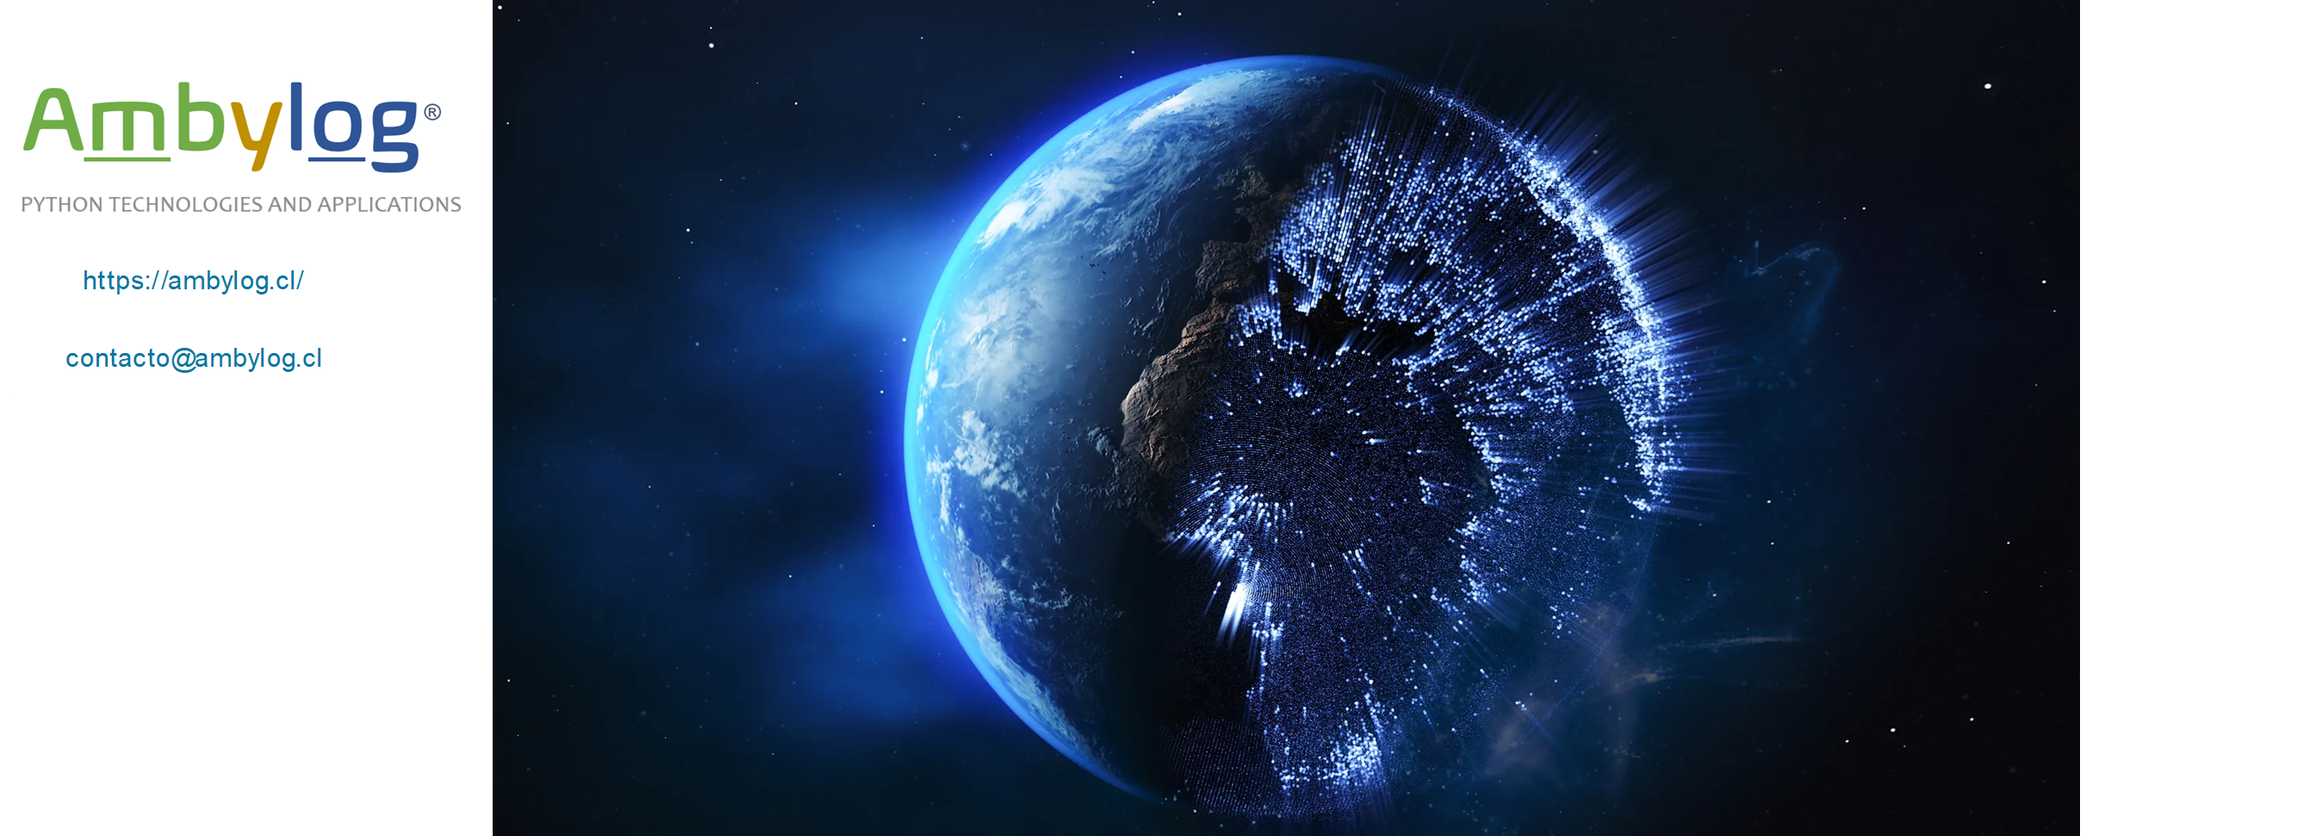
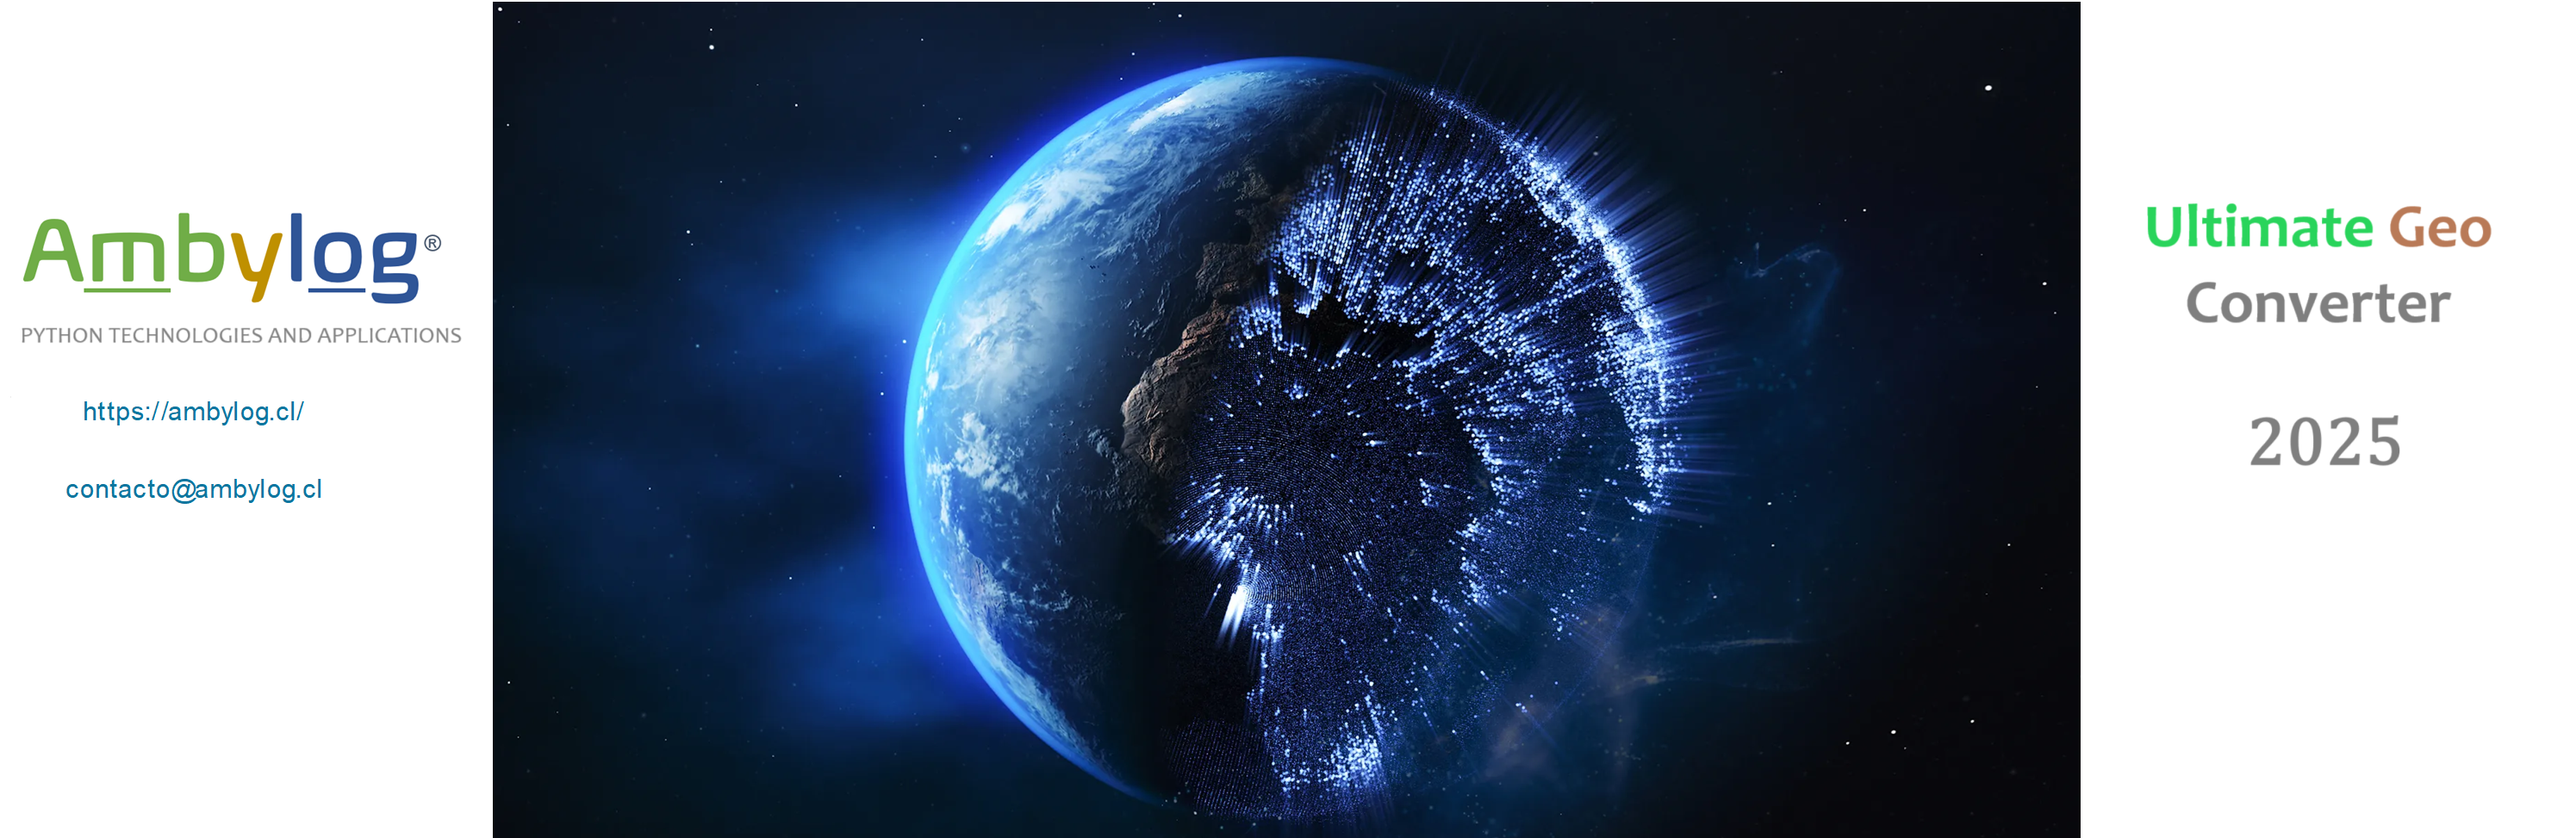
earth1 ampliado

diff --git a/.history/from_kml_20250515121102.py b/.history/from_kml_20250515121102.py
@@ -90,7 +90,7 @@ class App(customtkinter.CTk):
         
         # FRAME: ROW 2 - MAP PREVIEW
         # Creación del frame de vista previa
-        self.preview_frame = customtkinter.CTkFrame(self, height=500, width=500, fg_color='white')
+        self.preview_frame = customtkinter.CTkFrame(self, height=500, width=500, fg_color='#0C101C')
         self.preview_frame.grid(row=2, column=0, padx=10, pady=5, columnspan=4, sticky='nsew')
         self.preview_frame.grid_columnconfigure(1, weight=1)
         
@@ -115,9 +115,9 @@ class App(customtkinter.CTk):
        
         #Atardecer_anf.png amanecer.png
         images_config = [
-            {"url": "https://raw.githubusercontent.com/AlexAhernM/Converter/master/earth1.png", "size": (1360, 510)},
+            {"url": "https://raw.githubusercontent.com/AlexAhernM/Converter/master/earth1.png", "size": (1260, 530)},
             {"url": "https://raw.githubusercontent.com/AlexAhernM/Converter/master/Atardecer_anf.png", "size": (300, 180)},
-            {"url": "https://raw.githubusercontent.com/AlexAhernM/Converter/master/amanecer.png", "size": (300, 180)}
+            {"url": "https://raw.githubusercontent.com/AlexAhernM/Converter/master/amanecer.png", "size": (520, 180)}
         ]
         
          # Descargar las imágenes y crear CTkImage

diff --git a/.history/from_kml_20250515121501.py b/.history/from_kml_20250515121501.py
@@ -90,7 +90,7 @@ class App(customtkinter.CTk):
         
         # FRAME: ROW 2 - MAP PREVIEW
         # Creación del frame de vista previa
-        self.preview_frame = customtkinter.CTkFrame(self, height=500, width=500, fg_color='white')
+        self.preview_frame = customtkinter.CTkFrame(self, height=500, width=500, fg_color='#0C101C')
         self.preview_frame.grid(row=2, column=0, padx=10, pady=5, columnspan=4, sticky='nsew')
         self.preview_frame.grid_columnconfigure(1, weight=1)
         
@@ -117,7 +117,7 @@ class App(customtkinter.CTk):
         images_config = [
             {"url": "https://raw.githubusercontent.com/AlexAhernM/Converter/master/earth1.png", "size": (1360, 510)},
             {"url": "https://raw.githubusercontent.com/AlexAhernM/Converter/master/Atardecer_anf.png", "size": (300, 180)},
-            {"url": "https://raw.githubusercontent.com/AlexAhernM/Converter/master/amanecer.png", "size": (300, 180)}
+            {"url": "https://raw.githubusercontent.com/AlexAhernM/Converter/master/amanecer.png", "size": (520, 180)}
         ]
         
          # Descargar las imágenes y crear CTkImage

diff --git a/.history/from_kml_20250515121622.py b/.history/from_kml_20250515121622.py
@@ -117,7 +117,7 @@ class App(customtkinter.CTk):
         images_config = [
             {"url": "https://raw.githubusercontent.com/AlexAhernM/Converter/master/earth1.png", "size": (1360, 510)},
             {"url": "https://raw.githubusercontent.com/AlexAhernM/Converter/master/Atardecer_anf.png", "size": (300, 180)},
-            {"url": "https://raw.githubusercontent.com/AlexAhernM/Converter/master/amanecer.png", "size": (300, 180)}
+            {"url": "https://raw.githubusercontent.com/AlexAhernM/Converter/master/amanecer.png", "size": (520, 180)}
         ]
         
          # Descargar las imágenes y crear CTkImage

diff --git a/.history/from_kml_20250515121822.py b/.history/from_kml_20250515121822.py
@@ -117,7 +117,7 @@ class App(customtkinter.CTk):
         images_config = [
             {"url": "https://raw.githubusercontent.com/AlexAhernM/Converter/master/earth1.png", "size": (1360, 510)},
             {"url": "https://raw.githubusercontent.com/AlexAhernM/Converter/master/Atardecer_anf.png", "size": (300, 180)},
-            {"url": "https://raw.githubusercontent.com/AlexAhernM/Converter/master/amanecer.png", "size": (300, 180)}
+            {"url": "https://raw.githubusercontent.com/AlexAhernM/Converter/master/amanecer.png", "size": (420, 180)}
         ]
         
          # Descargar las imágenes y crear CTkImage
